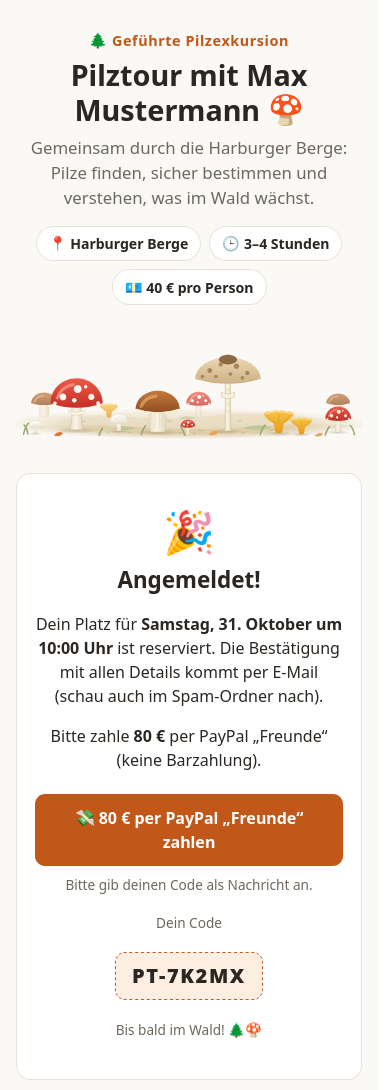
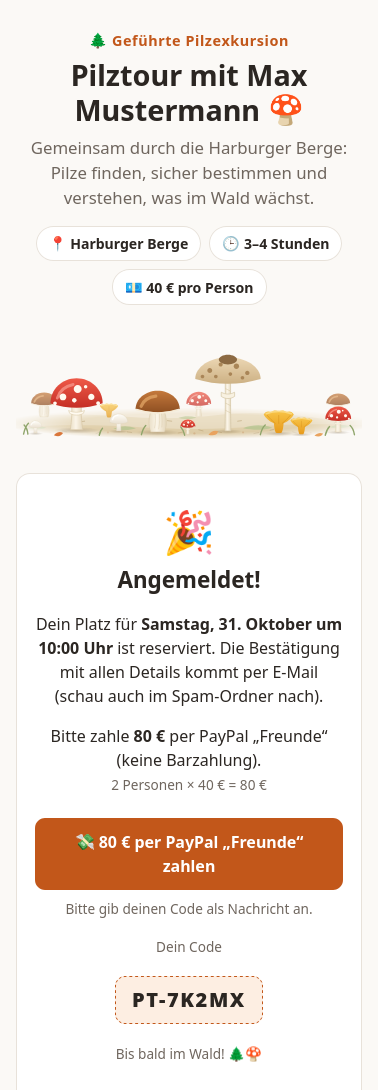
Bestätigung nennt die Rechnung (Personen × Preis), Screenshot dazu neu
Claude-Session: https://claude.ai/code/session_01MYNf8pMomTE6ck1vT4AuAb

Changed region(s): [[0.0923, 0.7174, 0.8923, 0.9982]]

diff --git a/public/app.js b/public/app.js
@@ -90,7 +90,7 @@ function zeigeErgebnis(d) {
        <p class="dim small">Dein Code</p><span class="code">${esc(d.code)}</span>`
     : `<span class="big-emoji">🎉</span><h2>Angemeldet!</h2>
        <p>Dein Platz für <strong>${esc(fmt(d.termin.start))}</strong> ist reserviert. Die Bestätigung mit allen Details kommt per E-Mail (schau auch im Spam-Ordner nach).</p>
-       <p>Bitte zahle <strong>${d.betrag} €</strong> per PayPal „Freunde“ (keine Barzahlung).</p>${pay}
+       <p>Bitte zahle <strong>${d.betrag} €</strong> per PayPal „Freunde“ (keine Barzahlung).<br><span class="dim small">${d.personen} ${d.personen === 1 ? 'Person' : 'Personen'} × ${d.termin.preis} € = ${d.betrag} €</span></p>${pay}
        <p class="dim small">Dein Code</p><span class="code">${esc(d.code)}</span>
        <p class="dim small">Bis bald im Wald! 🌲🍄</p>`;
   $('form').hidden = true;

diff --git a/server/index.js b/server/index.js
@@ -60,7 +60,7 @@ app.post('/api/buchung', limiter(8, 3600e3), async (req, res) => {
   if (b.datenschutz !== true) return res.status(400).json({ error: 'Bitte bestätige, dass du die Datenschutzerklärung gelesen hast.' });
   try {
     const r = await buchung.anmelden(d);
-    res.json({ ok: true, code: r.code, status: r.status, betrag: r.betrag, termin: sichtbar(r.termin), paypal: process.env.PAYPAL_ME || null });
+    res.json({ ok: true, code: r.code, status: r.status, betrag: r.betrag, personen: d.personen, termin: sichtbar(r.termin), paypal: process.env.PAYPAL_ME || null });
   } catch (err) {
     if (err instanceof buchung.Fehler) return res.status(409).json({ error: err.message });
     console.error(err);
